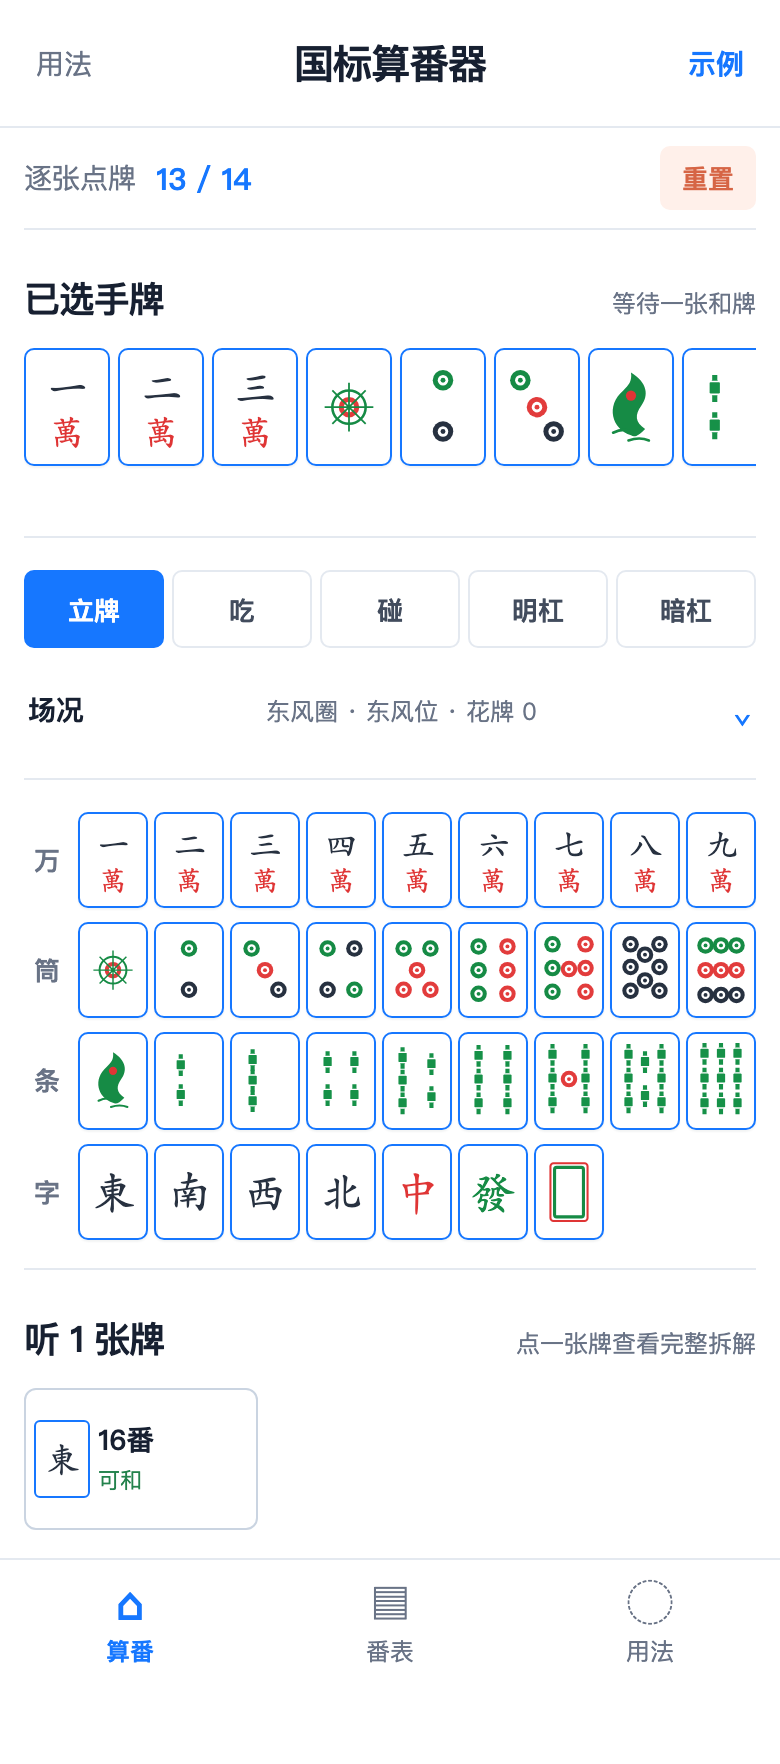
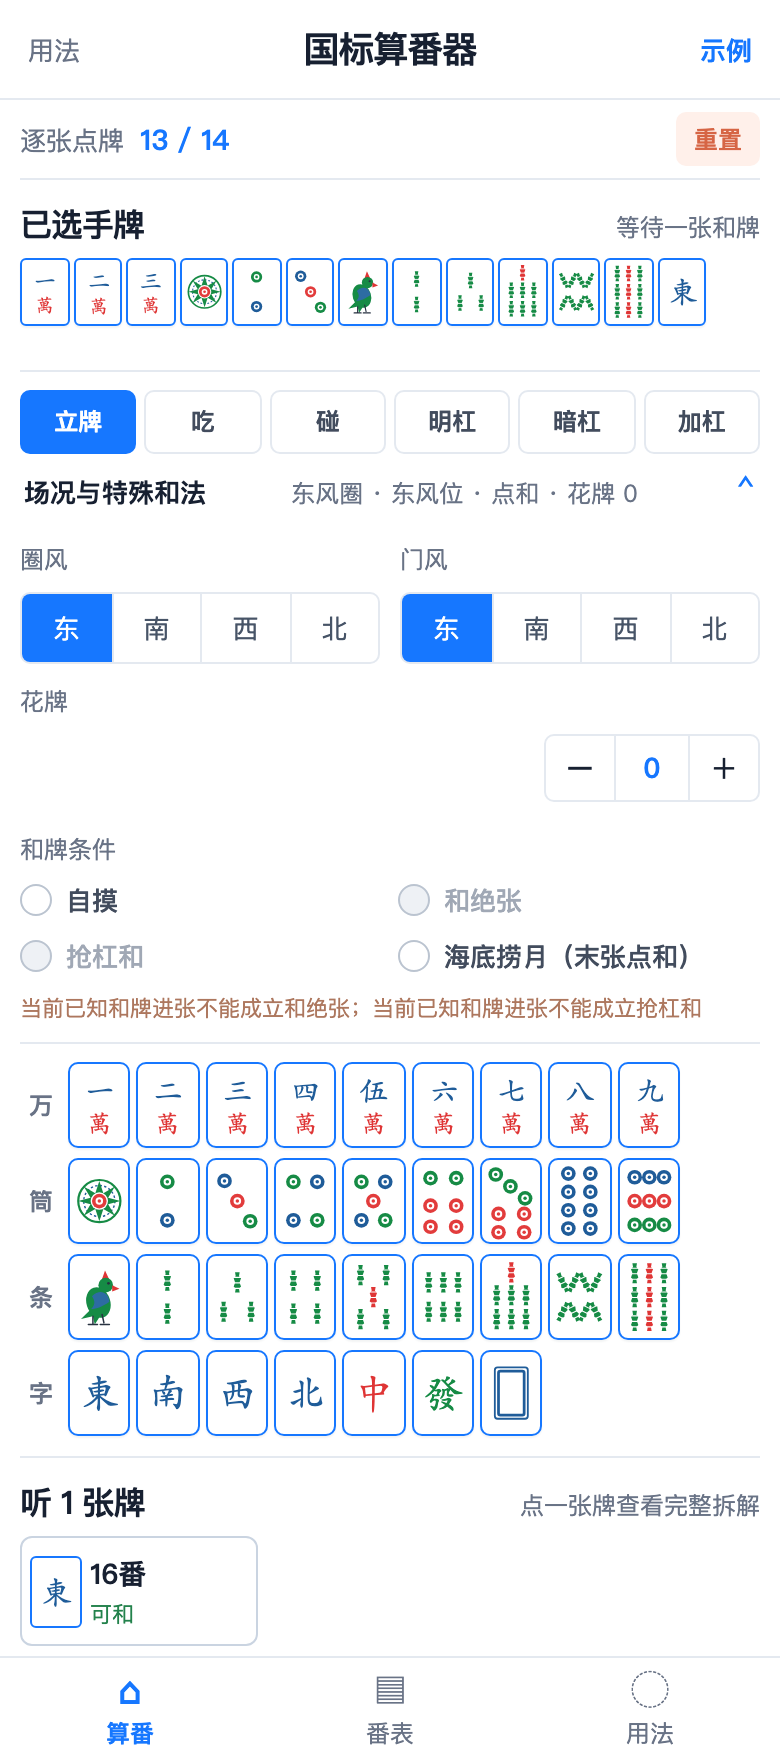
Refresh mobile preview with current tile artwork

diff --git a/README.md b/README.md
@@ -5,7 +5,7 @@
 [ChatGPT 部署版](https://guobiao-mahjong-calculator.firehorsek.chatgpt.site/) · [国内访问推荐](https://tech.wenmq.cn/mcr-mahjong-calculator/)
 
 <p align="center">
-  <img src="docs/media/mobile-calculator.png" width="390" alt="MCR 麻将算番器移动端预览：已选手牌、完整点牌面板与听牌结果" />
+  <img src="docs/media/mobile-calculator.png" width="390" alt="MCR 麻将算番器移动端预览：更新后的标准牌面、已选手牌与听牌结果" />
 </p>
 
 <p align="center">
